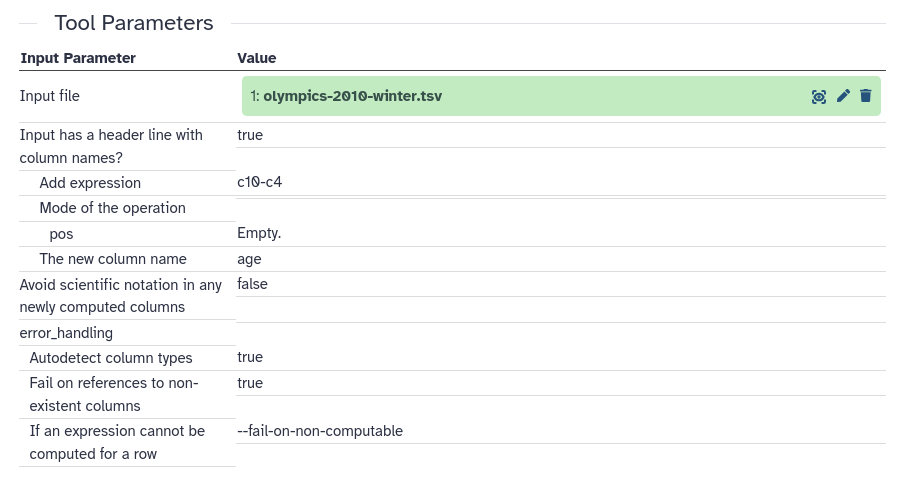
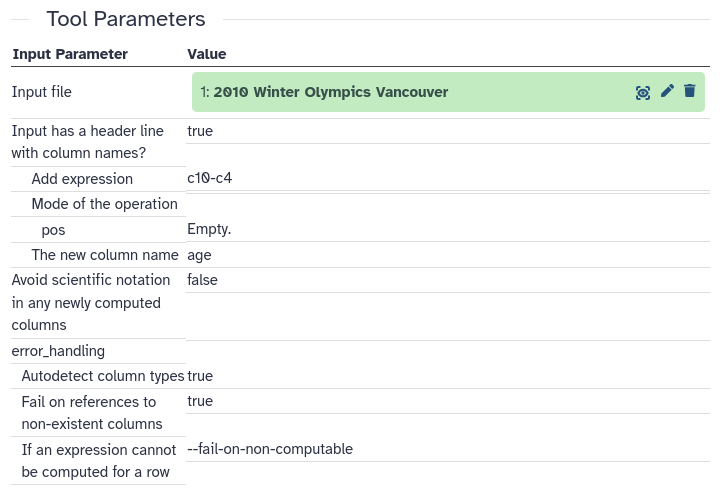
finish process section

Changed region(s): [[0.0, 0.0934, 0.9724, 0.9647], [0.0608, 0.0, 0.3039, 0.0622]]

diff --git a/topics/introduction/tutorials/galaxy-intro-rdm/tutorial.md b/topics/introduction/tutorials/galaxy-intro-rdm/tutorial.md
@@ -298,7 +298,7 @@ based on these two existing columns.
 
 > <hands-on-title>Find a tool</hands-on-title>
 >
-> 1. Search for the tool {% tool [Compute - on a row](toolshed.g2.bx.psu.edu/repos/devteam/column_maker/Add_a_column1/2.1) %}
+> 1. Search for the tool {% tool [Compute - on rows](toolshed.g2.bx.psu.edu/repos/devteam/column_maker/Add_a_column1/2.1) %}
 >    - Click on **Tools** in the Activity bar
 >    - Enter "Compute" in the search bar
 >
@@ -335,11 +335,11 @@ We now have what we need to add an age column to our dataset, let's do it:
 >
 > 1. {% tool [Compute - on a row](toolshed.g2.bx.psu.edu/repos/devteam/column_maker/Add_a_column1/2.1) %} with the following parameters
 >    - *"Input file"*: `2010 Winter Olympics Vancouver`
->    - *"Input has a header line with column names?"*: Yes
+>    - *"Input has a header line with column names?"*: `Yes`
 >    - *"Expressions"*
 >      - {% icon plus %} Insert Expressions
 >        - *"Add expression"*: `c10-c4`
->        - *"Mode of the operation"*: Append
+>        - *"Mode of the operation"*: `Append`
 >        - *"The new column name"*: `age`
 > 2. **Run** the tool
 >
@@ -350,7 +350,7 @@ This tool will run and a new output dataset will appear at the top of your histo
 > <hands-on-title> Check the results </hands-on-title>
 >
 > 1. **View** {% icon galaxy-eye %} the resulting file
->    - make sure the new column is added, and the column header is "age"
+>    - make sure the new column was successfully added, and the column header is "age"
 >
 > > <question-title> </question-title>
 > >
@@ -408,10 +408,29 @@ In addition, it shows which tool produced this output, complete with exact param
 
 Our file only contained information for a single Olympics, let's have a look at a second Olympics as well.
 
+We will import another file from Zenodo, but in a slightly different way. Instead of providing the download URL for the dataset, we can also browse Zenodo repositories (and many other data repositories) directly from the Galaxy upload menu.
 
-> <hands-on-title> Re-run the tool on a different dataset </hands-on-title>
+> <hands-on-title> Upload a second dataset </hands-on-title>
 >
-> 1. **Upload** a second file from Zenodo, as before
+> 1. **Option 1:** Choose from Repository
+>    - Open the **Upload** window
+>    - At the bottom, click on  "Choose from Repository"
+>
+>      ![choose from repositories button]({% link topics/introduction/images/galaxy-intro-rdm/upload-from-repositories.png %})
+>
+>    - Search for *"Zenodo"* at the top
+>      - If you do not find anything, this is not supported on your Galaxy yet, please skip to option 2 below
+>    - Search for the repository with the same name as this tutorial *"Introduction to Galaxy as an RDM platform"*
+>
+>      ![choose from repositories button]({% link topics/introduction/images/galaxy-intro-rdm/zenodo-search.png %})
+>
+>    - Select the file `olympics-2010-summer.tsv`
+>
+>      ![choose from repositories button]({% link topics/introduction/images/galaxy-intro-rdm/zenodo-repo-import.png %})
+>
+>    - Click **Start**
+>
+> 2. **Option 2:** From URL (same as before)
 >
 >    ```
 >    https://zenodo.org/records/18803585/files/olympics-2008-summer.tsv
@@ -419,13 +438,30 @@ Our file only contained information for a single Olympics, let's have a look at 
 >
 >    {% snippet faqs/galaxy/datasets_import_via_link.md %}
 >
-> 2. Hit the **Re-run** {% icon dataset-rerun %} button on the output from the **Compute tool**
+> > <question-title> Examine the file </question-title>
+> >
+> > 1. Which Olympics is this file for? Which city was it held in?
+> >
+> > > <solution-title></solution-title>
+> > > 1. This file is from the 2008 summer Olympics in Beijing
+> > >
+> > {: .solution}
+> {: .question}
+{: .hands_on}
+
+
+Now that we have a second dataset, we want to run the same **Compute** {% icon tool %} tool on this data so that we get an age column.
+We could open the tool again, and re-configure all the settings, but there is an easier way to repeat what we did before.
+
+> <hands-on-title> Re-run a tool </hands-on-title>
+>
+> 1. Click the **Re-run** {% icon dataset-rerun %} button on the output from the **Compute tool**
 >    - You will see the tool form with the exact same settings we used before
 >    - Because Galaxy tracks all the parameter settings, it is easy to repeat a tool on new data, without having to choose all the parameters again.
 >
 >    ![rerun button]({% link topics/introduction/images/galaxy-intro-rdm/rerun-tool.png %})
 >
-> 3. Change the input dataset to the summer olympics file we just uploaded
+> 2. **Change the input dataset** to the summer olympics file we just uploaded
 >    - Run the tool
 >
 > > <question-title> How did it go? </question-title>
@@ -480,6 +516,8 @@ The error messages can sometimes be a bit cryptic, but the more you use the tool
 > >     Summer	Beijing	Gymnastics	Gymnastics Women's Individual All-Around	NA"
 > >    ```
 > >
+> >    Apparently, no birth year was known for this athlete from North Korea
+> >
 > > 2. Yes, since the problem is with our input file, this is something we can fix ourself.
 > >    - One solution could be to remove all lines that contain `NA` in the birth year column.
 > >    - Another would be to replace all `NA` values with `nan` (not a number), which is the appropriate way to indicate missing values in numeric columns
@@ -501,10 +539,10 @@ So now that we know what caused the error, let's fix it by re-running our tool o
 >    - Expand the **Error Handling** section at the bottom of the tool form
 >      - *"Autodetect column types"*: `No`
 >      - *"If an expression cannot be computed for a row"*: `Skip the row`
->    - *"Add Expression"*: `int(c10)-int(c4)`
+>    - Change the *"Expression"* parameter to: `int(c10)-int(c4)`
 >      - the `int()` part tells the tool to turn the value into an integer (whole number). Since we told the tool to not autodetect anymore, we need to tell it how to interpret the values in the column.
+>    - Run the tool
 >
-> 2. Run the tool
 >
 >    ![expression of the tool form]({% link topics/introduction/images/galaxy-intro-rdm/compute-error-handling-expression.png %})
 >
@@ -513,7 +551,7 @@ So now that we know what caused the error, let's fix it by re-running our tool o
 >
 > > <question-title> </question-title>
 > >
-> > 1. What age is the first Olympian in this file, *Ragnhild Margrethe Aamodt *?
+> > 1. What age is the first Olympian in this file, *Ragnhild Margrethe Aamodt*?
 > >
 > > > <solution-title></solution-title>
 > > > 1. Age 27. The age column is the last one.
@@ -523,26 +561,206 @@ So now that we know what caused the error, let's fix it by re-running our tool o
 
 If this solution seemed a bit cryptic, don't worry too much, there are always multiple ways to solve the problem. The important thing is that you ran into a problem, looked at the error, and then solved it.
 
-TODO: a tip box with alternative solutions? remove lines from file with a tool? replace NA with nan with a tool?
-
 TODO: optional section with OpenRefine
 
 
 #### Keeping your history clean
 
-deleting datasets, undeleting, purging
+If you have failed items in your history, you might want to delete them. This helps keep your history organized.
 
+
+> <hands-on-title> Delete failed dataset </hands-on-title>
+>
+> 1. Click on the **trashcan icon** {% icon galaxy-delete %} on the failed (red) dataset
+>
+>
+> > <tip-title> Deleted by accident? </tip-title>
+> >
+> > Did you accidentally delete a dataset you didn't mean to delete? Not to worry, your data is not gone yet.
+> > You can show these deleted datasets in your history, and **undelete** them.
+> >
+> > 1. Click on  **include deleted** {% icon galaxy-delete %} at the top of your history
+> >    - so not on the dataset, but at the top of the history panel
+> >    - you will see the deleted dataset appear in your history again
+> >   - if you expand the deleted dataset, the delete icon has turned into an undelete icon
+> >
+> >    ![history option to include deleted datasets]({% link topics/introduction/images/galaxy-intro-rdm/history-include-deleted.png %})
+> >
+> {: .tip}
+{: .hands_on}
+
+Your dataset is now gone from your history. But deleting it does not remove it completely yet. So if you delete something by accident, you can still view it and undelete it.
+
+You can also delete datasets in bulk
+
+{% snippet faqs/galaxy/datasets_deleting.md %}
+
+Sometimes you really want to permanently delete a dataset, for example to free up your storage quota. By default you get 250 GB storage (exact number may depend on your Galaxy), and usually more can be requested temporarily. If you are running out of storage space, you can *purge* (permanently delete) datasets as well. This cannot be undone.
+
+{% snippet faqs/galaxy/datasets_purging_datasets.md %}
+
+We recommend always keeping your history clean, and deleting any failed steps.
+
+
+> <comment-title> More data cleaning and preprocessing tools </comment-title>
+>
+> Galaxy offers a wide range of basic file manipulation tools that are very helpful for data cleaning.
+> Operations such as file transformations, filtering, sorting, grouping, joining, splitting, etc are all possible inside Galaxy
+>
+> For more practice with such tools, please see our [Data Manipulation Olympics tutorial]({% link topics/introduction/tutorials/data-manipulation-olympics/tutorial.md %})
+>
+{: .comment}
 
 
 ### Scaling up
 
+Now that we have preprocessed our data, we can continue our analysis, but before we do that, let's explore some more
+Galaxy RDM features that can help you manage your research data and analyses.
+
+
 #### Multiple histories
+
+You can have multiple histories in Galaxy, to organize your different analyses. We will now start a second history,
+and show you how you can switch between histories and move data from one history to another.
+
+
+> <hands-on-title> Create a second History </hands-on-title>
+>
+> 1. Create a new History
+>
+>    {% snippet faqs/galaxy/histories_create_new.md %}
+>
+> 2. **Name** {% icon galaxy-pencil %} your history
+>    - call it "Multi-Olympics Analysis"
+>
+{: .hands_on}
+
+You have now created a new, empty history. You can easily switch back and forth between histories as needed
+
+{% snippet faqs/galaxy/histories_switch.md %}
+
+We will continue our analysis in this new history, and use collections and dataset tags to analyze multiple datasets simultaneously,
+and keeping our data organized.
+
+To avoid re-uploading our Olympics dataset and duplicating that data, we can simply copy the files from our previous history
+
+> <hands-on-title> Copy datasets from another history  </hands-on-title>
+>
+> 1. View your histories side by side. Instructions are in the box below:
+>
+>    {% snippet faqs/galaxy/histories_side_by_side_view.md %}
+>
+>    ![multi-history view]({% link topics/introduction/images/galaxy-intro-rdm/multi-history.png %})
+>
+> 2. **Drag-and-drop** datasets between histories
+>    - drag the Winter Olympics file to the new history
+>    - do the same for the Summer Olympics file
+>
+>    ![multi-history view after file copy]({% link topics/introduction/images/galaxy-intro-rdm/multi-history-after.png %})
+>
+{: .hands_on}
+
+We now have both our datasets in our new history. By doing it this way, rather than re-uploading the files, we do not increase our storage usage.
 
 #### Dataset tags
 
+You may have noticed in our first history that the results from the **Compute** {% icon tool %} tool were named *Compute on dataset 1* and *Compute on dataset 3*. To make it a bit more clear for ourselves which dataset was generated from which input file, we can add **dataset tags** {% icon galaxy-tags %}
+
+> <hands-on-title> Add dataset tags </hands-on-title>
+>
+> 1. Add two dataset tags to the Winter Olympics file
+>    - Make sure all tags start with a hashtag (`#`), then they will also be added to any datasets derived from it during analysis.
+>    - tag 1: `#winter`
+>    - tag 2: `#Vancouver`
+>    - tag 3: `#2010`
+>
+>    {% snippet faqs/galaxy/datasets_add_tag.md %}
+>
+> 2. Do the same for the Summer Olympics file:
+>    - tag 1: `#summer`
+>    - tag 2: `#Beijing`
+>    - tag 3: `#2008`
+>
+>    ![datasets with tags added]({% link topics/introduction/images/galaxy-intro-rdm/datasets-tagged.png %})
+>
+{: .hands_on}
+
+
 #### Dataset collections
 
+In order to easily run analysis on multiple datasets at once, we can create *dataset collections* in Galaxy:
+
+> <hands-on-title> Create a collection </hands-on-title>
+>
+> 1. Create a collection out of our two olympic datasets
+>
+>    {% snippet faqs/galaxy/collections_autobuild_list.md %}
+>
+>    ![dataset collection builder]({% link topics/introduction/images/galaxy-intro-rdm/collection.png %})
+>
+> 2. Your history now has a single item in it
+>    - it tells you what is inside *"a list with 2 tabular datasets"*
+>
+>    ![collection history item]({% link topics/introduction/images/galaxy-intro-rdm/collection-new.png %})
+>
+> 3. **Click on the collection** to see the files inside it
+>
+>    ![collection contents]({% link topics/introduction/images/galaxy-intro-rdm/collection-files.png %})
+>
+> 4. **Return to the history view** by clicking the link at the top of the history panel
+>    - The link will be called something like *"History: Multi-Olympics Data Analysis:*
+>
+{: .hands_on}
+
+
+We can now treat this collection the same way as a single dataset. If we use a collection as input of a tool, that tool will be run on each of
+the datasets inside the collection. The result will again be a collection, this time with all the result files.
+
+
 #### Run a tool on a collection
+
+Now that we have set up our inputs as a collection with tags, lets see how to run the **Compute** {% icon tool %} tool on both datasets in the collection at once.
+
+> <hands-on-title> Run a tool on a collection </hands-on-title>
+>
+> 1. {% tool [Compute - on a row](toolshed.g2.bx.psu.edu/repos/devteam/column_maker/Add_a_column1/2.1) %} with the following parameters
+>    - {% icon param-collection %} *"Input file"*: `Olympics Dataset` (collection)
+>      - in front of this parameter, click on the {% icon param-collection %} icon to switch to collection input
+>    - *"Input has a header line with column names?"*: `Yes`
+>    - *"Expressions"*
+>      - {% icon plus %} Insert Expressions
+>        - *"Add expression"*: `int(c10)-int(c4)`
+>        - *"Mode of the operation"*: `Append`
+>        - *"The new column name"*: `age`
+>    - Expand the **Error Handling** section at the bottom of the tool form
+>      - *"Autodetect column types"*: `No`
+>      - *"If an expression cannot be computed for a row"*: `Skip the row`
+>
+>    {% snippet faqs/galaxy/tools_select_collection.md %}
+>
+> 2. **View** the results
+>
+> > <question-title> What is our output? </question-title>
+> >
+> > 1. How many outputs were created? Are the files the same as before?
+> > 2. What happened with the tags?
+> >
+> > > <solution-title></solution-title>
+> > > 1. One output collection was created, with two files inside. The files themselves are the same as before.
+> > > 2. The tags from our input datasets were also added to the results
+> > >
+> > {: .solution}
+> {: .question}
+>
+{: .hands_on}
+
+Collections allow you to easily run tools on multiple datasets at once. We have 2 datasets in our collection, but you can have as many as
+you like, even hundreds or thousands.
+
+Now that we have everything in Galaxy set up for analysis, and our data pre-processed to the right format, we can start to
+answer our research question, ***"What is the age distribution of Olympic ahtletes?"***.
+
+
 
 
 ## Analyse: Calculate results
